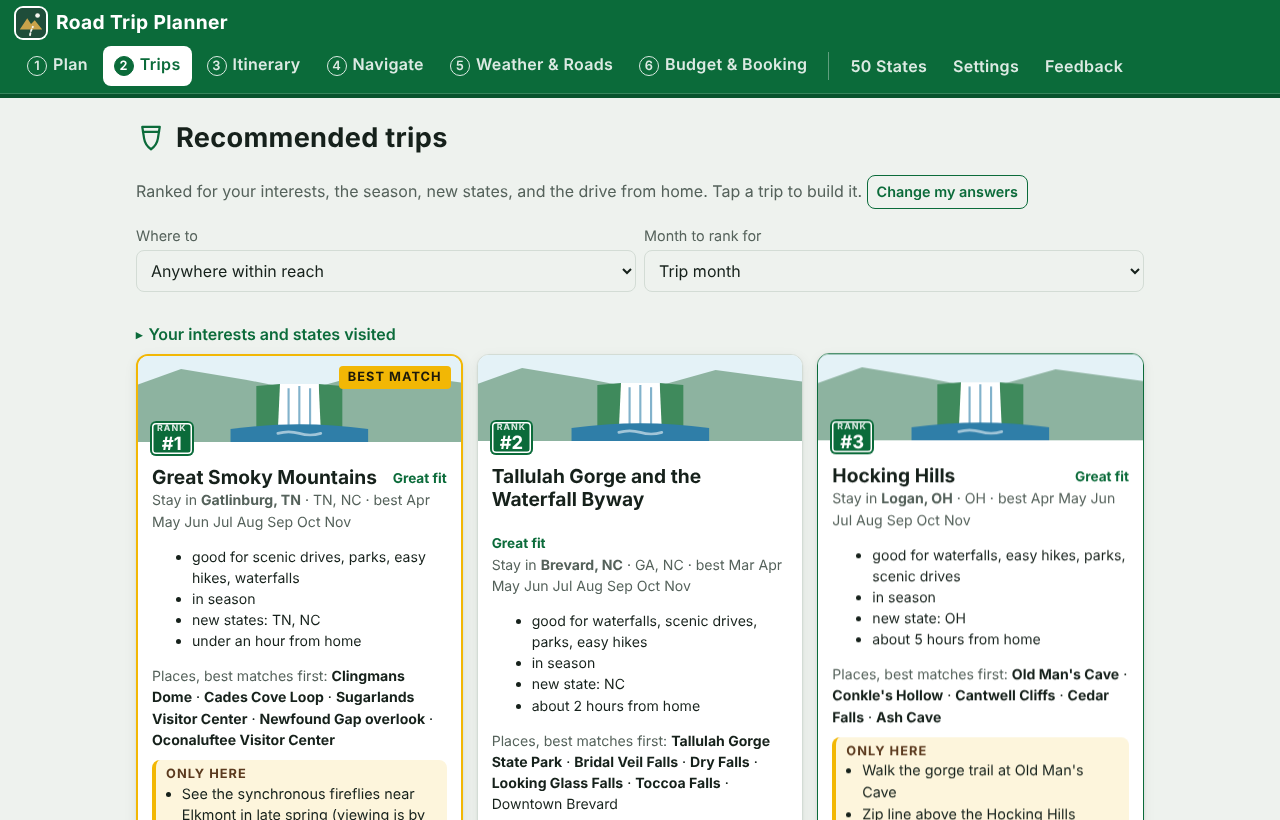
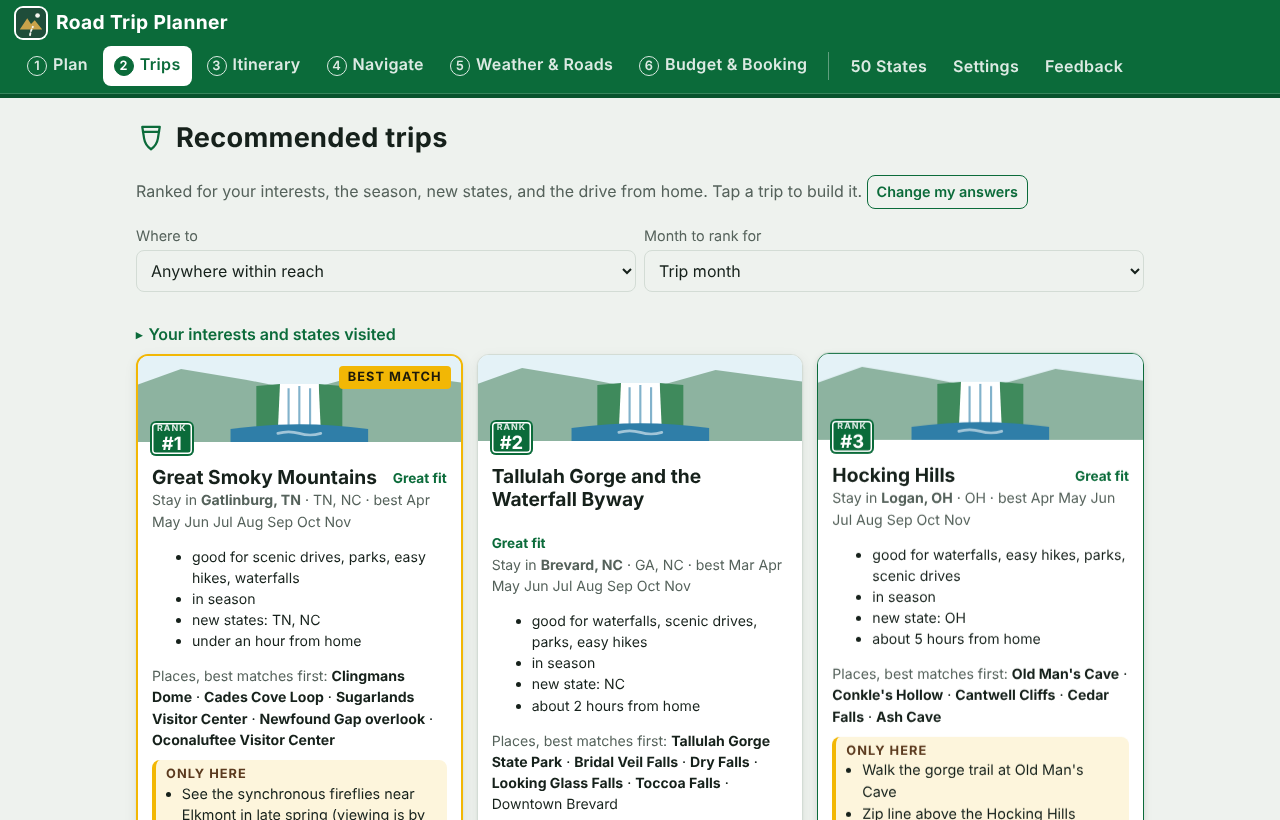
Settings: official links, no implied sign-up
The place search email is now marked optional, with a plain note that
it is not an account and no sign-up exists anywhere. The old label said
the usage policy recommends an email; it does not. The Nominatim search
docs ask for one only from people making large numbers of requests.
Links: Nominatim usage policy, Nominatim search docs (email parameter),
Claude Console and its API keys page, OSRM demo server usage policy.
The Trips page now offers a button to the AI key setup. PRIVACY and
LIMITS match. tests/test_settings.py checks every link. Version 0.4.2.

Claude-Session: https://claude.ai/code/session_012tTfN871uxuhqeHTJwrePr

diff --git a/app/js/app.js b/app/js/app.js
@@ -7,7 +7,7 @@
   const MONTHS = ["Jan","Feb","Mar","Apr","May","Jun","Jul","Aug","Sep","Oct","Nov","Dec"];
   const DIETS = ["No restriction","Low carb or carnivore","Vegetarian","Vegan","Gluten free","Seafood friendly"];
   const HINT_TRIP = "rtp:tripHint";
-  const APP_VERSION = "0.4.1";
+  const APP_VERSION = "0.4.2";
   const REPO = "https://github.com/JBrady0850/road-trip-planner";
   const ICONS = new Set(["scenic","parks","waterfalls","beach","lighthouses","fishing","water","history","food","lights","hiking","caves","town"]);
   const icon = (k, cls = "ico") => ICONS.has(k) || k === "feedback" || k === "route" ? `<svg class="${cls}" aria-hidden="true"><use href="#i-${k}"></use></svg>` : "";
@@ -216,7 +216,7 @@
         <div class="chips" style="margin-bottom:10px">${INTERESTS.map(([k, l]) => chip("interest", k, l, p.interests.includes(k))).join("")}</div>
         ${statesGrid(true)}</details>
       ${shown.length ? `<div class="grid">${shown.map(card).join("")}</div>` : `<div class="card"><p>No catalog city in ${esc(stName)} yet. Pick "Anywhere within reach", or add one (see docs/CATALOG.md in the project).</p></div>`}
-      ${!ai ? `<p class="small muted">Optional: add your own Anthropic API key in Settings for AI-written itineraries.</p>` : ""}`;
+      ${!ai ? `<p class="small muted">Optional: AI-written itineraries need your own Anthropic API key. <button class="btn small ghost" data-act="go" data-t="settings">Set it up in Settings</button></p>` : ""}`;
   }
 
   // ---------- trip editor ----------
@@ -394,13 +394,18 @@
   function vSettings() {
     const p = st.profile;
     return `<h1>Settings</h1>${vDevices()}
-      <div class="card"><h2>Optional AI itineraries</h2><p class="small muted">Your own Anthropic API key, stored only in this browser and sent only to api.anthropic.com. Usage is billed to your account.</p>
+      <div class="card"><h2>Optional AI itineraries</h2><p class="small muted">Skip this unless you want Claude to write custom itineraries. Everything else in the app works without it.</p>
+      <ol class="steps-list small"><li>Create a Claude Console account at <a href="https://platform.claude.com" target="_blank" rel="noopener">platform.claude.com</a>.</li>
+        <li>Make a key on the <a href="https://platform.claude.com/settings/keys" target="_blank" rel="noopener">API keys page</a>, then paste it below.</li></ol>
+      <p class="small muted">The key stays in this browser and is sent only to api.anthropic.com. Usage is billed to your Console account.</p>
       ${field("API key", `<input type="password" data-bind="profile.aiKey" value="${esc(p.aiKey)}" autocomplete="off">`)}
       ${field("Model", `<input type="text" data-bind="profile.aiModel" value="${esc(p.aiModel)}">`)}</div>
-      <div class="card"><h2>Services</h2>
-      ${field("Contact email for OpenStreetMap place search (recommended by their usage policy)", `<input type="email" data-bind="profile.contactEmail" value="${esc(p.contactEmail || "")}">`)}
-      ${field("Routing server (OSRM)", `<input type="url" data-bind="profile.osrmUrl" value="${esc(p.osrmUrl || "")}" placeholder="https://router.project-osrm.org">`)}
-      <p class="small muted">The public OSRM demo server is for light use and has no traffic data.</p></div>
+      <div class="card"><h2>Place search and routing</h2><p class="small muted">Both are free public services. No sign-up or account is needed, and you can leave both boxes empty.</p>
+      ${field("Contact email for place search (optional)", `<input type="email" data-bind="profile.contactEmail" value="${esc(p.contactEmail || "")}" placeholder="Leave empty unless you search a lot">`)}
+      <p class="small muted">No sign-up: this is not an account. OpenStreetMap asks people who make large numbers of searches to include an email so its volunteers can reach them if there is a problem. Planning a trip is a light load. If you fill it in, it is sent only with place searches to OpenStreetMap.
+        <a href="https://operations.osmfoundation.org/policies/nominatim/" target="_blank" rel="noopener">Place search usage policy</a> · <a href="https://nominatim.org/release-docs/latest/api/Search/" target="_blank" rel="noopener">What the email is for</a></p>
+      ${field("Routing server (optional)", `<input type="url" data-bind="profile.osrmUrl" value="${esc(p.osrmUrl || "")}" placeholder="https://router.project-osrm.org">`)}
+      <p class="small muted">Leave empty to use the free public OSRM demo server. It is for light use and has no traffic data. To use your own OSRM server, paste its address. <a href="https://github.com/Project-OSRM/osrm-backend/wiki/Api-usage-policy" target="_blank" rel="noopener">Demo server usage policy</a></p></div>
       <div class="card"><h2>Your data</h2><p class="small muted">Everything stays in this browser. Back it up or move it to another device with a file.</p>
       <div class="row"><button class="btn" data-act="backup">Back up all data</button><label class="btn ghost">Restore from file<input type="file" accept=".json,application/json" data-act="restore" hidden></label><button class="btn warn" data-act="reset">Erase all data</button></div></div>
       <div class="card"><h2>About</h2><p class="small">Road Trip Planner, open source (MIT). Map data © OpenStreetMap contributors. Routing by OSRM. Weather from the National Weather Service. Destination details change: verify hours, prices, and closures before you travel.</p></div>`;

diff --git a/app/sw.js b/app/sw.js
@@ -2,7 +2,7 @@
    connected device always gets the newest version; the cached copy is used only
    when offline. Live services (routing, weather, place search, AI) still need a
    connection and are never cached. Bump VERSION when the file list changes. */
-const VERSION = "rtp-v0.4.1";
+const VERSION = "rtp-v0.4.2";
 const FILES = ["./", "index.html", "css/style.css", "js/engine.js", "js/services.js", "js/app.js",
   "data/catalog.js", "data/states.js", "manifest.webmanifest", "icon.svg", "icon-180.png",
   "icon-192.png", "icon-512.png", "icon-maskable-512.png", "qr-app.png"];

diff --git a/tests/test_settings.py b/tests/test_settings.py
@@ -1,0 +1,50 @@
+"""Settings: every outside service the page names comes with its official link, and
+nothing implies a sign-up that does not exist. Sources checked 2026-10-15:
+Nominatim usage policy and Search API docs (email is optional, for large numbers of
+requests), Claude Console API keys page, OSRM demo server usage policy."""
+from pathlib import Path
+
+import pytest
+from playwright.sync_api import sync_playwright
+
+APP = (Path(__file__).resolve().parents[1] / "app" / "index.html").as_uri()
+LINKS = {
+    "https://operations.osmfoundation.org/policies/nominatim/": "place search usage policy",
+    "https://nominatim.org/release-docs/latest/api/Search/": "what the email is for",
+    "https://platform.claude.com/settings/keys": "where to make an API key",
+    "https://github.com/Project-OSRM/osrm-backend/wiki/Api-usage-policy": "routing server usage policy",
+}
+
+
+@pytest.fixture(scope="module")
+def page():
+    with sync_playwright() as p:
+        b = p.chromium.launch()
+        pg = b.new_page(viewport={"width": 834, "height": 1194})
+        pg.goto(APP)
+        pg.evaluate("localStorage.clear()")
+        pg.reload()
+        pg.click("#tabs [data-tab=settings]")
+        yield pg
+        b.close()
+
+
+def test_every_named_service_links_to_its_official_page(page):
+    for href, what in LINKS.items():
+        a = page.locator(f"main a[href='{href}']")
+        assert a.count() >= 1, f"Settings has no link for {what}"
+        assert a.first.get_attribute("target") == "_blank" and "noopener" in (a.first.get_attribute("rel") or "")
+
+
+def test_contact_email_is_optional_and_needs_no_sign_up(page):
+    card = page.locator(".card:has(input[data-bind='profile.contactEmail'])")
+    text = card.inner_text().lower()
+    assert "optional" in text and "no sign-up" in text, text
+    assert "recommended by their usage policy" not in text, "the usage policy does not ask for an email"
+
+
+def test_destinations_point_to_settings_with_a_button(page):
+    page.evaluate('RT.state.profile.home = {label: "Knoxville, TN", lat: 35.96, lon: -83.92, state: "Tennessee"}')
+    page.click("#tabs [data-tab=destinations]")
+    page.locator("main button[data-act=go][data-t=settings]").click()
+    assert page.get_attribute("#tabs button[aria-selected=true]", "data-tab") == "settings"

diff --git a/docs/LIMITS.md b/docs/LIMITS.md
@@ -8,7 +8,7 @@
 | My Maps imports one layer per file, KML up to 5 MB, and may drop folders or MultiGeometry | Routes can fail to import | One KML per day with a single LineString and no folders |
 | Public OSRM demo server is for light use and has no traffic data | Drive times run optimistic | Plan checker warns within 30 minutes of the cap; set your own OSRM server in Settings for heavy use |
 | NWS forecasts reach about 7 days ahead | Far-off dates show no forecast | Shows "Not yet available"; check again 48 hours before you leave |
-| OpenStreetMap place search allows about 1 request per second | Fast typing can be throttled | Searches are queued one per second; add a contact email in Settings |
+| OpenStreetMap place search allows about 1 request per second | Fast typing can be throttled | Searches are queued one per second; if you search a lot, add the optional contact email in Settings (no sign-up) |
 | Catalog hours, fees, and seasonal road closures change | A stop can be closed | Every itinerary says to verify; the AI prompt marks unverified details |
 | Straight-line drive estimates in the destination list | Mountain routes take longer | Check drive times replaces estimates with routed times |
 | Data lives in one browser on one device | Clearing site data erases it | Settings, Back up all data; restore on any device |

diff --git a/docs/PRIVACY.md b/docs/PRIVACY.md
@@ -13,6 +13,9 @@
   Nominatim, stop coordinates to the OSRM router, stop coordinates to the National
   Weather Service, and, only if you add your own key, your trip preferences to the
   Anthropic API.
+- The contact email in Settings is optional and is not an account; no sign-up is
+  needed anywhere. If you fill it in, it is sent only with place searches to
+  OpenStreetMap, which asks heavy users to include one.
 - Your API key stays in this browser and is sent only to api.anthropic.com. Backups
   leave the key out.
 - The app never books, reserves, buys, or signs in anywhere. Links open the official
